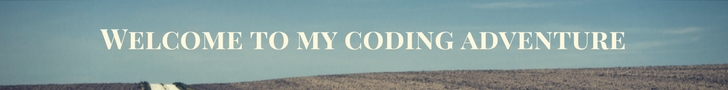
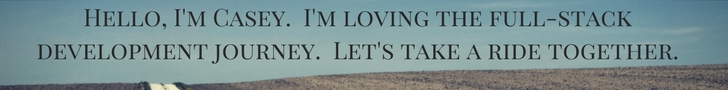
sitemap

Changed region(s): [[0.0302, 0.0889, 0.9368, 0.7111]]

diff --git a/style.css b/style.css
@@ -1,3 +1,91 @@
+.welcome > .welcome-image {
+  width: 100%;
+  display: block;
+  padding: 10px 0px;
+  margin-bottom: 3%;
+ }
+ .logo > .logo-image {
+  max-width: 10%;
+  min-height: 100px;
+  min-width: 100px;
+  float: left
+  padding: left 1px
+ }
+ .guide {
+  float: right;
+  font-size: 18px;
+  height: 20px;
+ font-size: 13px;
+  line-height: 10px;
+  padding-bottom: 10px;
+ }
+ .button {
+  background-color:#608899;
+  border: 1px;
+  color: #152329;
+  padding: 5px 5px;
+  text-decoration: underline;
+  display: inline-block;
+  font-size: 13px;
+  margin: 0px 2px;
+  margin-left: 5px;
+  cursor: pointer;
+  float: right;
+}
+ }
+ .header1 {
+  font-size:200%;
+  margin: 5%;
+  color: #242021
+}
+ body {
+  background-image: linear-gradient(to top, #608899 0%,#8c8e8b, #417b7b,#0a5076 100%);
+  height: 100%;
+  margin: 3%;
+  background-repeat: no-repeat;
+  font-family: 'Lucida Grande';
+}
+.intro {
+  /* background-image: linear-gradient(to top, #608899 0%,#8c8e8b 100%); */
+  background-color: #608899;
+  width: 70% auto;
+  margin: 2%;
+  margin-bottom: 4%;
+  padding: 1%;
+  box-shadow: 10px 1px 94px -21px rgba(0,0,0,0.75);
+  font-family: 'Lucida Grande';
+  color: #242021
+  font-weight: bold;
+  font-size:150%;
+}
+.skills {
+  /* background-image: linear-gradient(to top, #ce8b45 0%, #8c8e8b,#8c8e8b 100%); */
+  background-color: #608899;
+  width: 60% auto;
+  margin: 2%;
+  margin-left:15%;
+  margin-right: 15%;
+  padding: 1%;
+  box-shadow: 10px 1px 94px -21px rgba(0,0,0,0.75);
+  font-family: 'Lucida Grande';
+  color: #242021
+  font-weight: bold;
+  font-size:150%;
+}
+
+.sitemap {
+  display:block;
+  text-align:center;
+  color: #242021
+}
+
+@media (max-width: 900px) {
+  form {
+    width: 90%;
+  }
+
+}
+
 /* .container {
   height: 100%;
   display: grid
@@ -9,87 +97,3 @@
   "c c c c c c c c c c c c"
   "f f f f f f f f f f f f"
 } */
-
-.welcome > .welcome-image {
-  width: 100%;
-  display: block;
- }
- .logo > .logo-image {
-  max-width: 15%;
-  min-height: 100px;
-  min-width: 100px;
-  float: left
-  padding: left 1px
- }
- .button {
-  background-color:#608899;
-  border: 1px;
-  color: #152329;
-  padding: 10px 20px;
-  text-decoration: underline;
-  display: inline-block;
-  font-size: 13px;
-  margin: 0px 2px;
-  cursor: pointer;
-  float: right;
-}
- }
- body {
-  background-image: linear-gradient(to top, #608899 0%,#8c8e8b, #417b7b,#0a5076 100%);
-  height: 100%;
-  margin: 3%;
-  background-attachment: fixed;
-  background-repeat: no-repeat;
-  font-family: 'Lucida Grande';
-}
-@media (max-width: 900px) {
-  form {
-    width: 90%;
-  }
-}
-}
- /* .title {
-  background-image: linear-gradient(to top, #063B57 0%, #608899 100%);
-  height: 100%;
-  margin: 0;
-  background-attachment: fixed;
-  background-repeat: no-repeat;
-  font-family: 'Lucida Grande';
-} 
-h1 {
-  font-size:200%;
-  margin: 1% auto;
-  color: #242021
-}
-h2 {
-  font-size:180%;
-  margin: -1% auto;
-  color: #242021
-} */
-/* 
-.main1 {
-  background-image: linear-gradient(to top, #608899 0%,#8c8e8b 100%);
-  background-color: #608899;
-  width: 70% auto;
-  margin: 2%;
-  padding: 1%;
-  box-shadow: 10px 1px 94px -21px rgba(0,0,0,0.75);
-  font-family: 'Lucida Grande';
-  color: #242021
-  font-weight: bold;
-  font-size:150%;
-}
-.skills_section {
-  background-image: linear-gradient(to top, #ce8b45 0%, #8c8e8b,#8c8e8b 100%);
-  width: 60% auto;
-  margin: 2%;
-  margin-left:15%;
-  margin-right: 15%;
-  padding: 1%;
-  box-shadow: 10px 1px 94px -21px rgba(0,0,0,0.75);
-  font-family: 'Lucida Grande';
-  color: #242021
-  font-weight: bold;
-  font-size:150%;
-}*/
-

diff --git a/index.html b/index.html
@@ -2,6 +2,9 @@
 <html lang="en">
 <head>
   <meta charset="UTF-8">
+  <meta name="description" content="Web Development, Web Developer">
+  <meta name="keywords" content="Ruby,Rails,HTML,CSS,JavaScript,Angular,NodeJS,ReactJS">
+  <meta name="author" content="Casey Manning">
   <title> Coding by Manning</title>
   <meta name="viewport" content="width=device-width, initial-scale=1.0">
   <meta http-equiv="X-UA-Compatible" content="ie=edge">
@@ -11,14 +14,15 @@
 
 
 
-<!-- Links-->
+<!-- Links and buttons-->
 <ul class="nav">
   <a href="https://medium.com/it-works-on-my-machine" target="_blank" class="button">Medium</a>
   <a href="https://github.com/Caseykm"target="_blank" class="button">GitHub</a>
   <a href="https://www.linkedin.com/in/casey-manning-0853591b/" target="_blank" class="button">LinkedIn</a>
+  <h1 class="guide"> Follow me:</h1>
 </ul>
 
-<!-- Images -->
+<!-- Welcome and logo Images -->
 <div class="logo">
     <img class="logo-image" src="img/logo.png">
   </div>
@@ -30,38 +34,41 @@
 <body>
     <!-- About me -->
   <div class="header1">
-    <h2><strong>I am Casey Manning</strong></h2><br>
+    <h2><strong>About:</strong></h2><br>
     </header>
   </div>
-  <div class="main1">
+  <div class="intro">
       <p1>
-      I am an aspiring Web Developer on a mission to learn, grow, and hone my skills.<br><br>
-  
-      My aim is to work with people to change, inspire and effect positive change in the world.<br><br>
-      Follow my journey through the links above and I hope you'll find we can work together.<br><br>
+      I am an aspiring Web Developer on a mission to learn, grow, and hone my skills.<br>
+      My aim is to work with people to realize creativity and effect positive change.<br><br>
 
-      Currently based in Sydney Australia, but will move to where opportunity calls.<br><br>
-      Available from September 2018 after completion of the Coder Academy bootcamp.<br><br>
+      Check the links above, and I hope you'll find we can work together.<br>
+      Currently based in Sydney Australia. Available from September 2018. <br>
       </p1>
   </div>
 
   <!-- Skills -->
   <div class="header2">
-    <h2><strong>Skills and Achievements</strong>:</h2><br><br>
+    <h2><strong>Skills and Achievements:</strong></h2><br><br>
   </div>
-  <div class="skills_section">
+  <div class="skills">
     <p2>
-    Currently developing skills in HTML, CSS, Ruby,<br>
-    Ruby On Rails, JavaScript, Angular, NodeJS and ReactJS.<br><br>
+    -Currently studying in the Coder Academy bootcamp, developing skills in HTML, CSS, Ruby,
+    Ruby On Rails, JavaScript, Angular, NodeJS and ReactJS .<br><br>
 
-    Bachelor of Science - University of Queensland.<br>
-    Western Sydney University Leadership mentor program<br>
-    Toastmasters communication and leadership training<br><br>
+    -Bachelor of Science - University of Queensland.<br><br>
+    -Western Sydney University Leadership mentor program<br><br>
+    -Toastmasters communication and leadership training<br><br>
 
-    Project management - Teaching - Financial analysis -<br>
-    Microsoft office - Data extraction - Problem solving<br>
+    -Project management - Teaching - Financial analysis - Microsoft office - Data extraction - Problem solving<br>
     </p2> 
   </div>
 </body>
+<footer>
 
+  <!-- Sitemap -->
+    <div id="sitemap">
+        <a href="#" class="sitemap">Sitemap</a>
+     </div>
+</footer>
 </html>
